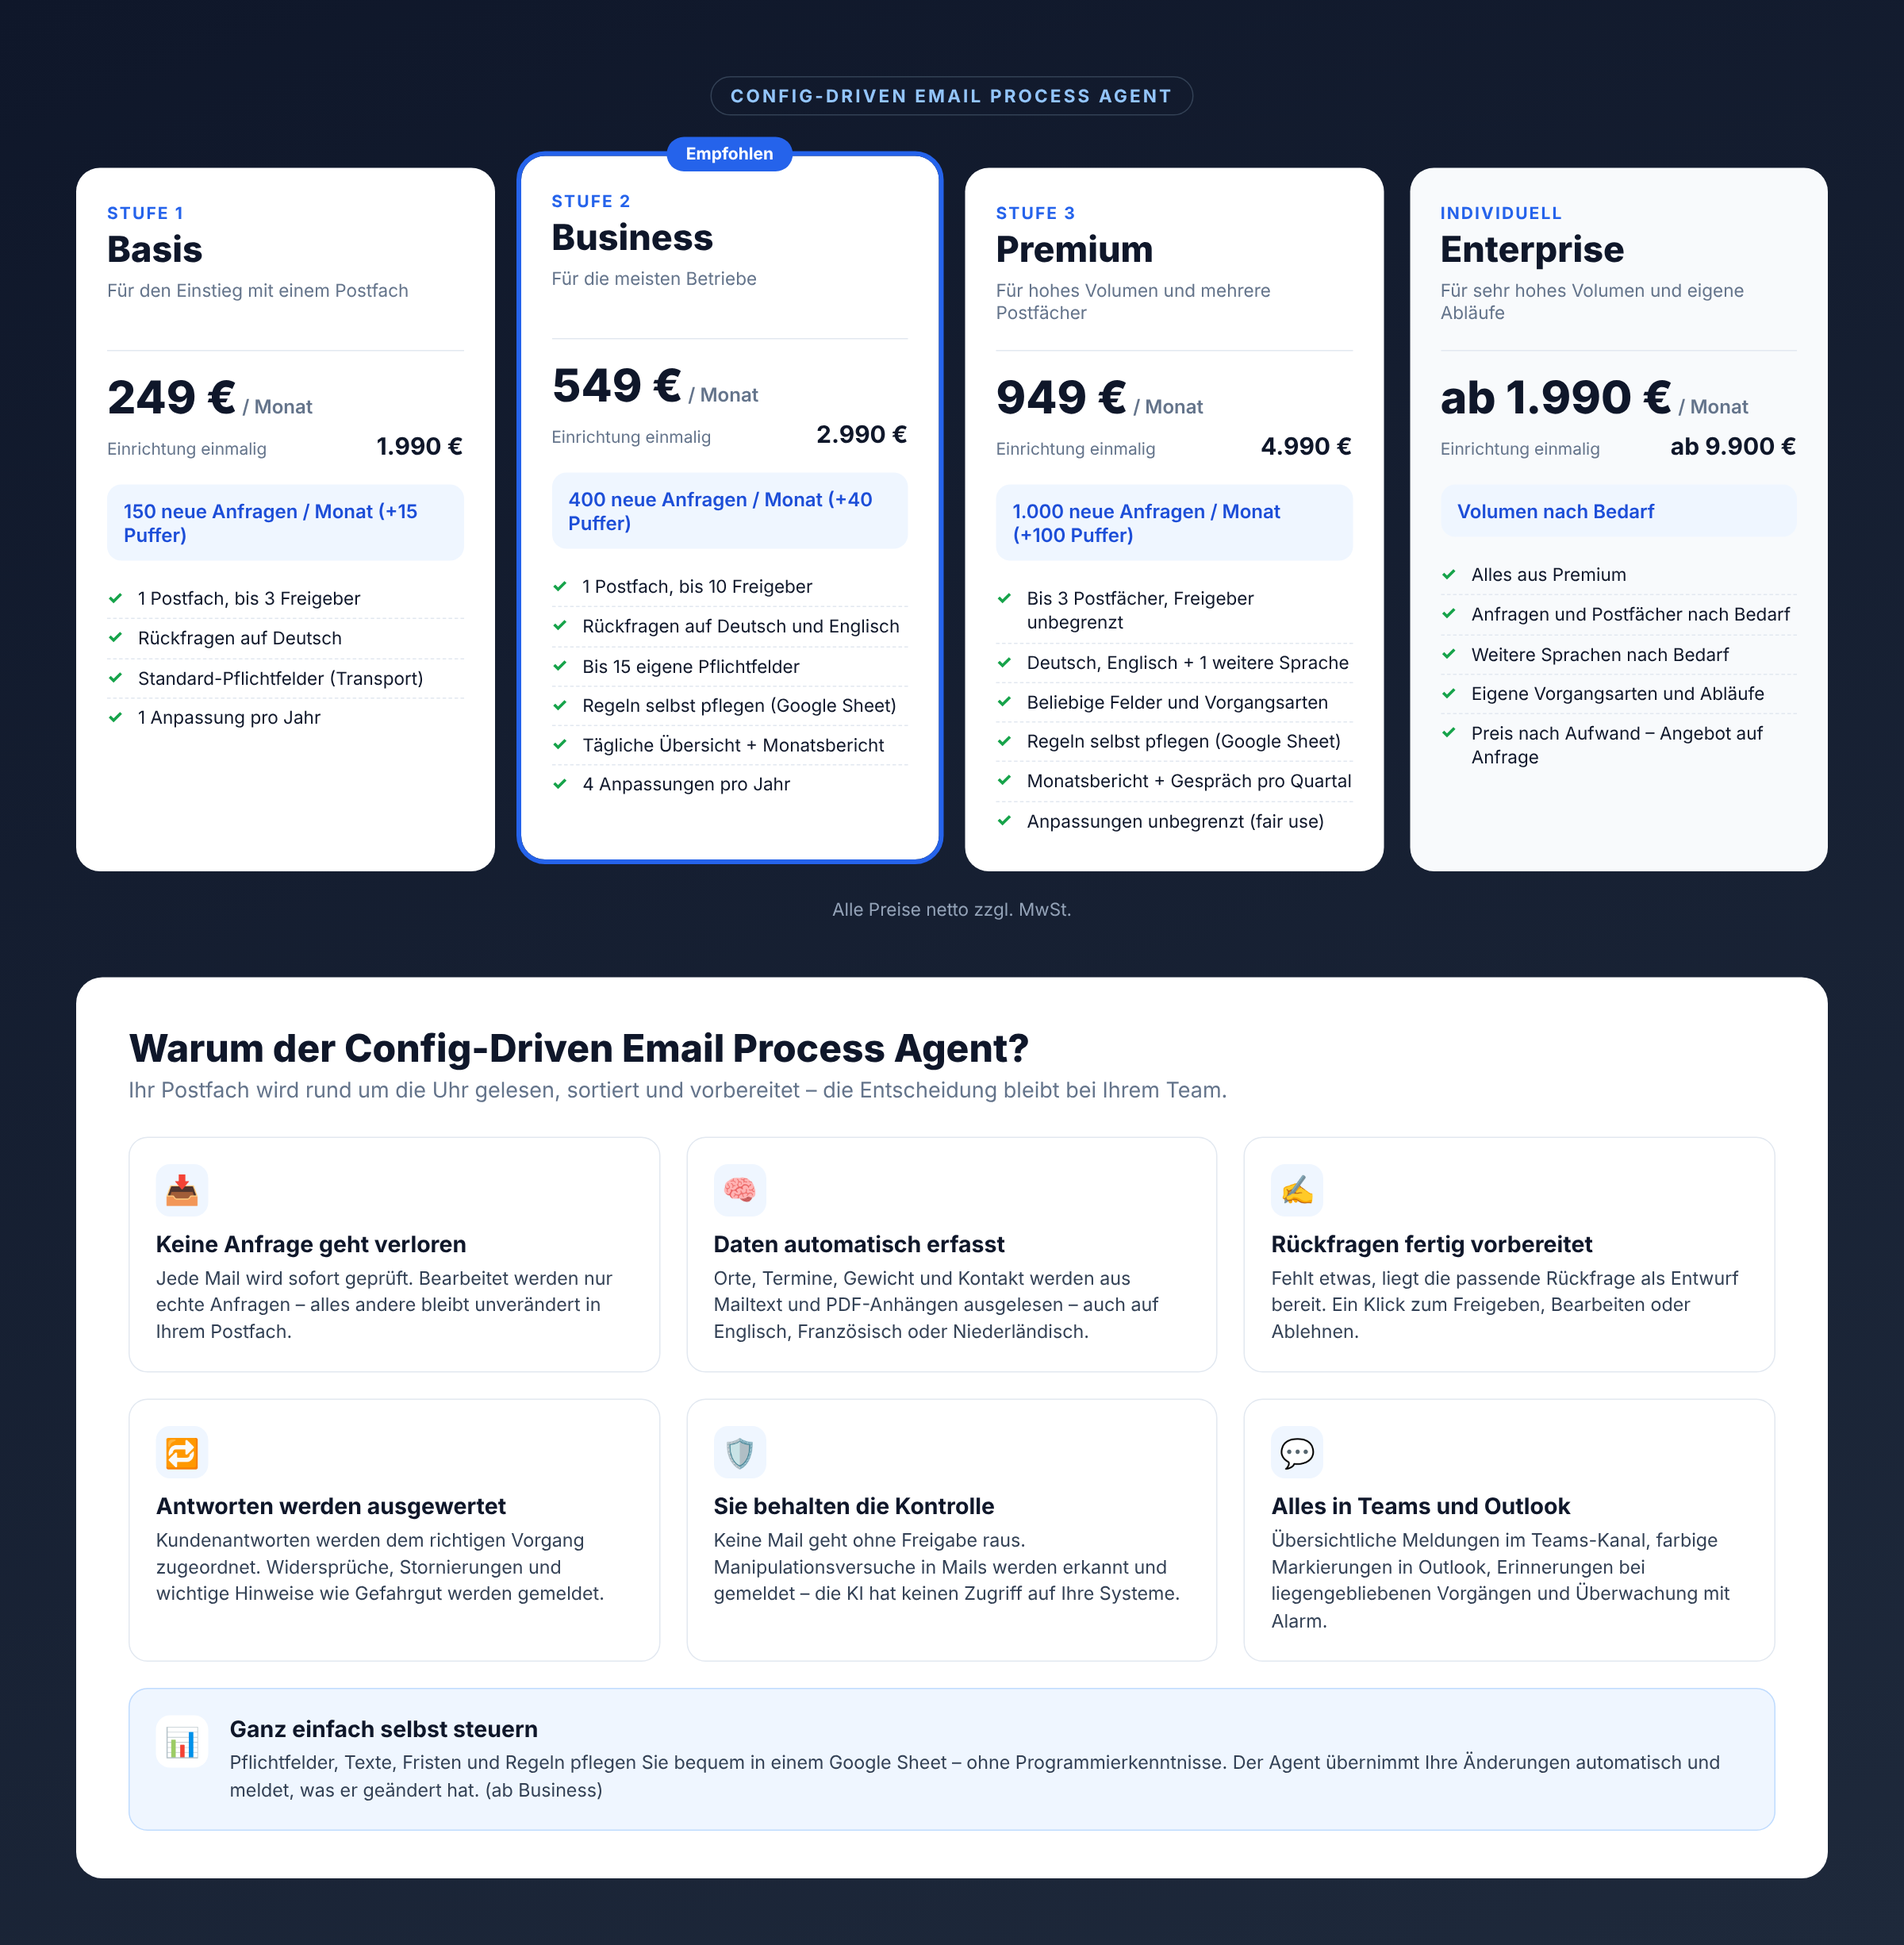
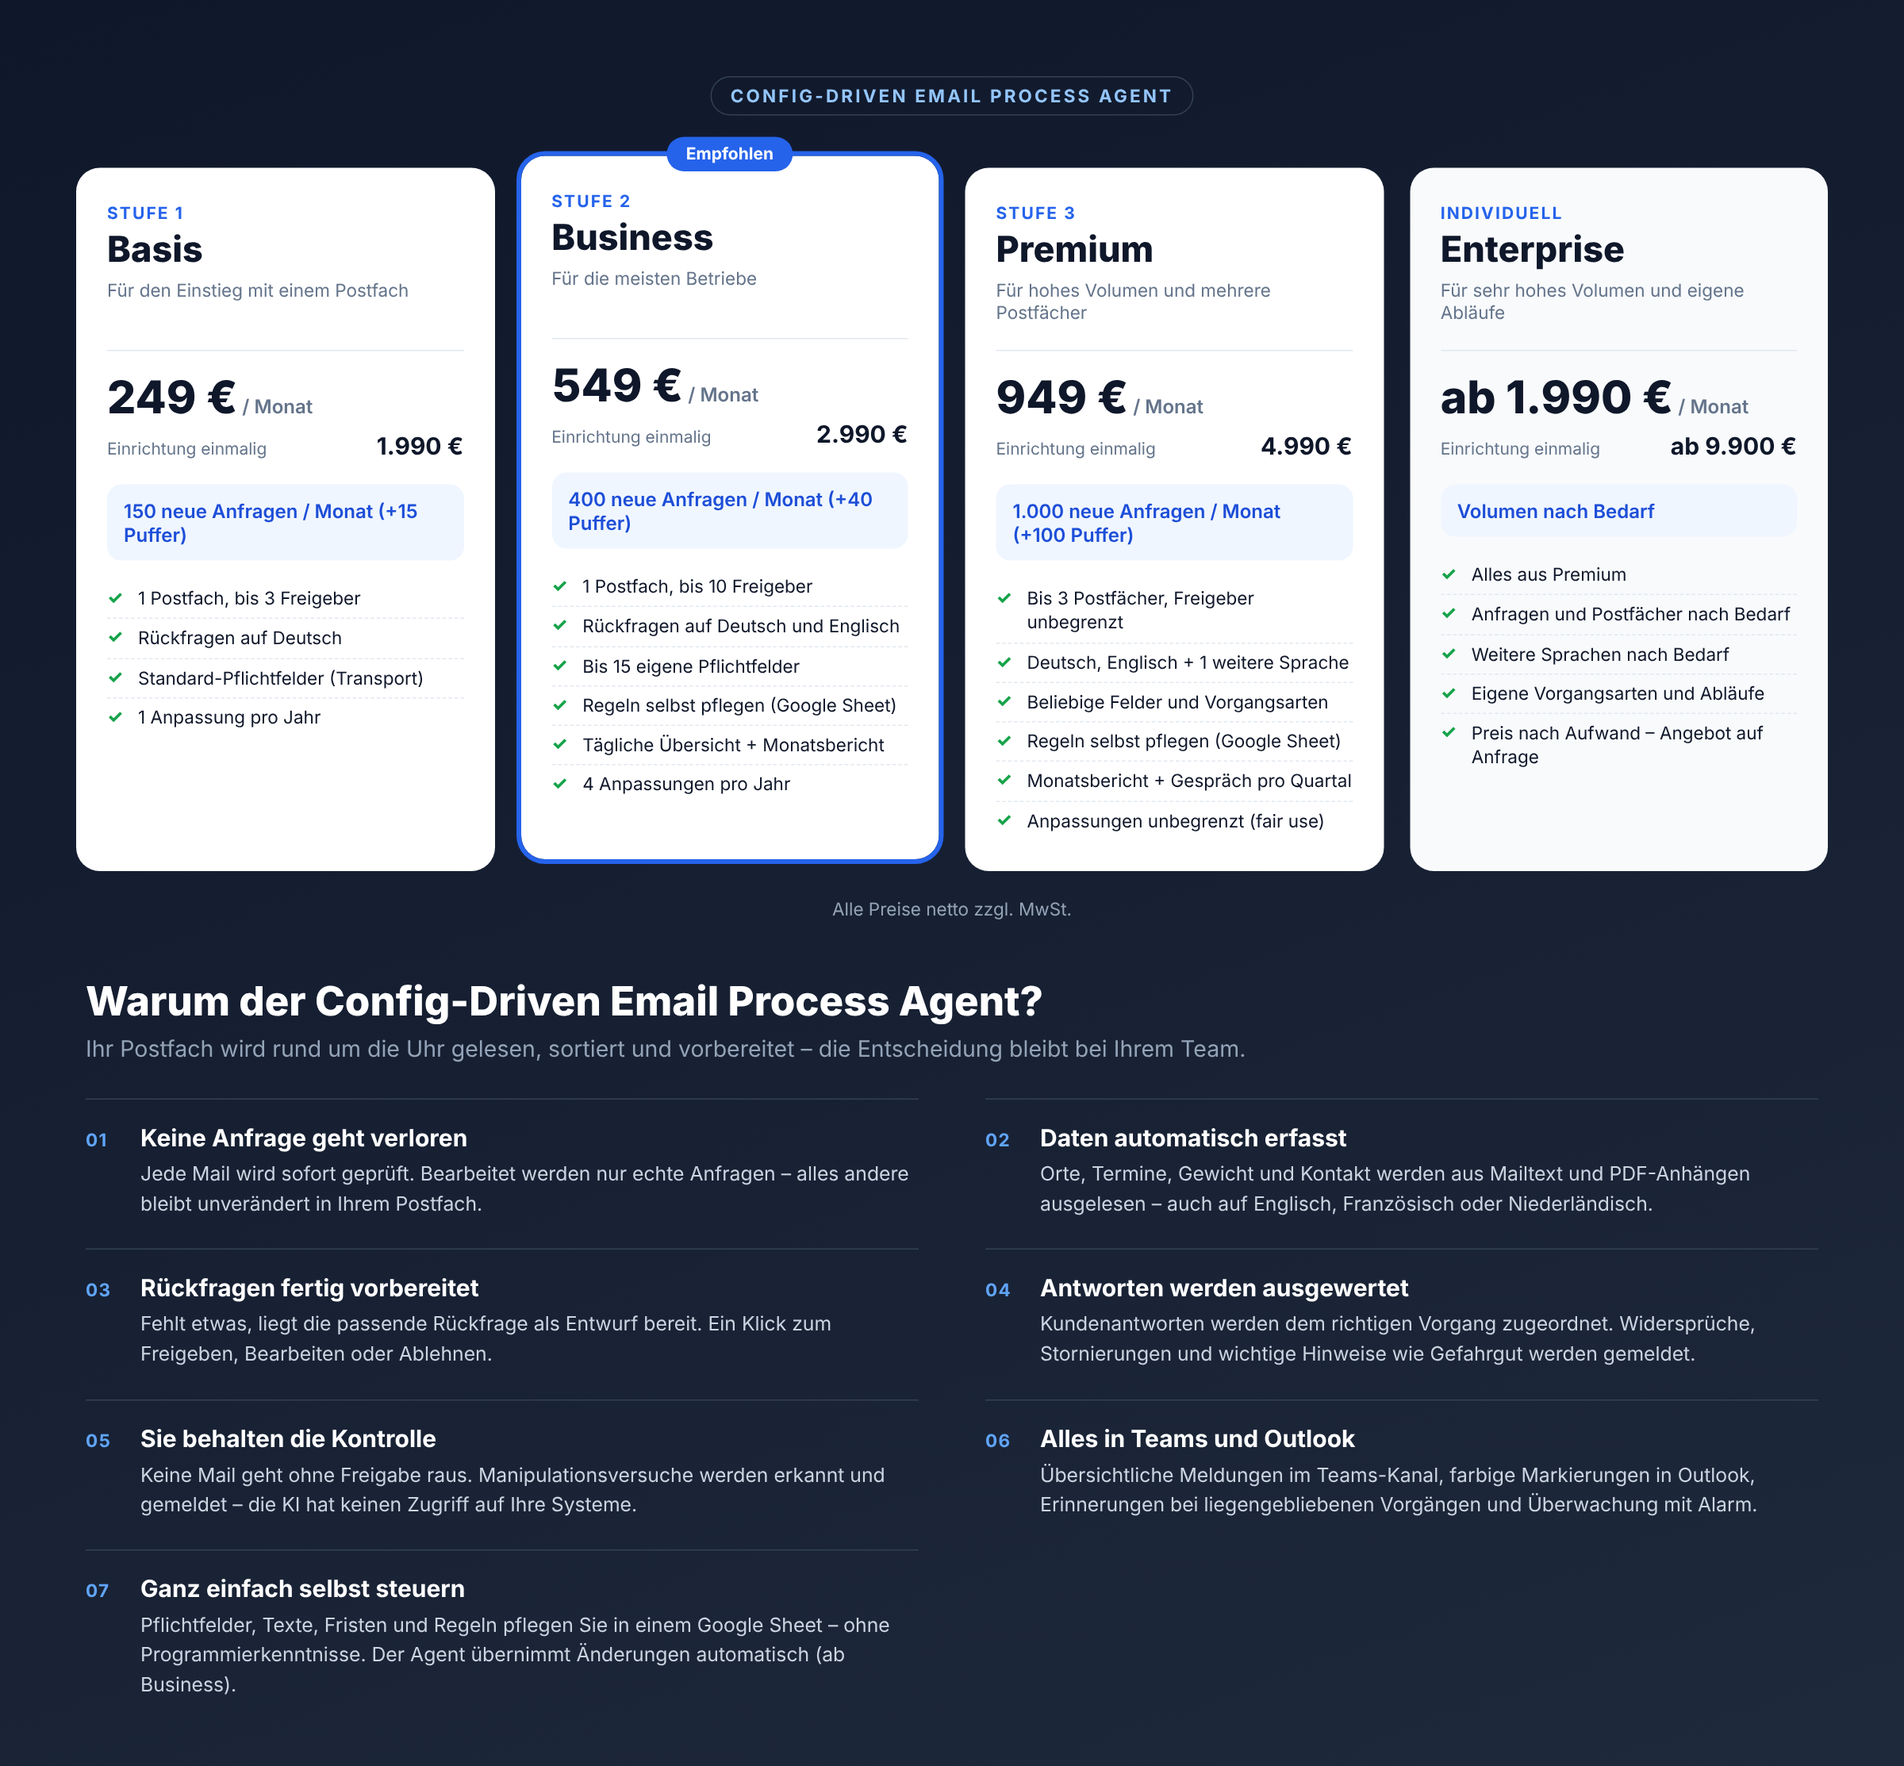
Marketing: Vorteile als Textliste ohne Emojis
Claude-Session: https://claude.ai/code/session_01DWBN4EiRV4Kip9NV7YGeLF

diff --git a/email-process-agent/docs/marketing/pakete.html b/email-process-agent/docs/marketing/pakete.html
@@ -32,9 +32,6 @@ li::before{content:"✓";position:absolute;left:0;top:5px;color:var(--ok);font-w
 .chips{display:flex;flex-wrap:wrap;gap:10px}
 .chips span{background:rgba(255,255,255,.08);border-radius:999px;padding:8px 16px;font-size:16px}
 .netto{text-align:center;color:#94a3b8;font-size:15px;margin-top:22px}
-.vorteile{margin-top:48px;background:#fff;border-radius:22px;padding:40px 44px}
-.vorteile h2{font-size:32px;font-weight:800;margin-bottom:6px}
-.vorteile .sub{font-size:18px;color:var(--muted);margin-bottom:28px}
 .grid{display:grid;grid-template-columns:repeat(3,1fr);gap:22px}
 .v{border:1px solid var(--line);border-radius:16px;padding:22px}
 .v .ic{width:44px;height:44px;border-radius:12px;background:var(--soft);display:flex;align-items:center;justify-content:center;font-size:24px;margin-bottom:12px}
@@ -44,6 +41,14 @@ li::before{content:"✓";position:absolute;left:0;top:5px;color:var(--ok);font-w
 .v p{font-size:15.5px;color:#334155;line-height:1.45}
 .fuss{text-align:center;color:#cbd5e1;font-size:17px;margin-top:30px}
 .fuss b{color:#fff}
+.vorteile{margin-top:48px;padding:0 8px;color:#e2e8f0;background:none}
+.vorteile h2{font-size:34px;font-weight:800;color:#fff;margin-bottom:8px}
+.vorteile .sub{font-size:19px;color:#94a3b8;margin-bottom:30px}
+.liste{display:grid;grid-template-columns:1fr 1fr;column-gap:56px;row-gap:26px}
+.pt{display:flex;gap:18px;border-top:1px solid #334155;padding-top:20px}
+.pt .nr{font-size:15px;font-weight:700;color:#60a5fa;letter-spacing:.06em;min-width:28px;padding-top:4px}
+.pt h3{font-size:20px;font-weight:700;color:#fff;margin-bottom:6px}
+.pt p{font-size:16.5px;line-height:1.5;color:#cbd5e1}
 </style></head><body>
 <div class="kopf">
   <div class="tag">Config-Driven Email Process Agent</div>
@@ -128,15 +133,14 @@ li::before{content:"✓";position:absolute;left:0;top:5px;color:var(--ok);font-w
 <div class="vorteile">
   <h2>Warum der Config-Driven Email Process Agent?</h2>
   <div class="sub">Ihr Postfach wird rund um die Uhr gelesen, sortiert und vorbereitet – die Entscheidung bleibt bei Ihrem Team.</div>
-  <div class="grid">
-    <div class="v"><div class="ic">📥</div><h3>Keine Anfrage geht verloren</h3><p>Jede Mail wird sofort geprüft. Bearbeitet werden nur echte Anfragen – alles andere bleibt unverändert in Ihrem Postfach.</p></div>
-    <div class="v"><div class="ic">🧠</div><h3>Daten automatisch erfasst</h3><p>Orte, Termine, Gewicht und Kontakt werden aus Mailtext und PDF-Anhängen ausgelesen – auch auf Englisch, Französisch oder Niederländisch.</p></div>
-    <div class="v"><div class="ic">✍</div><h3>Rückfragen fertig vorbereitet</h3><p>Fehlt etwas, liegt die passende Rückfrage als Entwurf bereit. Ein Klick zum Freigeben, Bearbeiten oder Ablehnen.</p></div>
-    <div class="v"><div class="ic">🔁</div><h3>Antworten werden ausgewertet</h3><p>Kundenantworten werden dem richtigen Vorgang zugeordnet. Widersprüche, Stornierungen und wichtige Hinweise wie Gefahrgut werden gemeldet.</p></div>
-    <div class="v"><div class="ic">🛡</div><h3>Sie behalten die Kontrolle</h3><p>Keine Mail geht ohne Freigabe raus. Manipulationsversuche in Mails werden erkannt und gemeldet – die KI hat keinen Zugriff auf Ihre Systeme.</p></div>
-    <div class="v"><div class="ic">💬</div><h3>Alles in Teams und Outlook</h3><p>Übersichtliche Meldungen im Teams-Kanal, farbige Markierungen in Outlook, Erinnerungen bei liegengebliebenen Vorgängen und Überwachung mit Alarm.</p></div>
-    <div class="v breit"><div class="ic">📊</div><div><h3>Ganz einfach selbst steuern</h3><p>Pflichtfelder, Texte, Fristen und Regeln pflegen Sie bequem in einem Google Sheet – ohne Programmierkenntnisse. Der Agent übernimmt Ihre Änderungen automatisch und meldet, was er geändert hat. (ab Business)</p></div></div>
+  <div class="liste">
+    <div class="pt"><div class="nr">01</div><div><h3>Keine Anfrage geht verloren</h3><p>Jede Mail wird sofort geprüft. Bearbeitet werden nur echte Anfragen – alles andere bleibt unverändert in Ihrem Postfach.</p></div></div>
+    <div class="pt"><div class="nr">02</div><div><h3>Daten automatisch erfasst</h3><p>Orte, Termine, Gewicht und Kontakt werden aus Mailtext und PDF-Anhängen ausgelesen – auch auf Englisch, Französisch oder Niederländisch.</p></div></div>
+    <div class="pt"><div class="nr">03</div><div><h3>Rückfragen fertig vorbereitet</h3><p>Fehlt etwas, liegt die passende Rückfrage als Entwurf bereit. Ein Klick zum Freigeben, Bearbeiten oder Ablehnen.</p></div></div>
+    <div class="pt"><div class="nr">04</div><div><h3>Antworten werden ausgewertet</h3><p>Kundenantworten werden dem richtigen Vorgang zugeordnet. Widersprüche, Stornierungen und wichtige Hinweise wie Gefahrgut werden gemeldet.</p></div></div>
+    <div class="pt"><div class="nr">05</div><div><h3>Sie behalten die Kontrolle</h3><p>Keine Mail geht ohne Freigabe raus. Manipulationsversuche werden erkannt und gemeldet – die KI hat keinen Zugriff auf Ihre Systeme.</p></div></div>
+    <div class="pt"><div class="nr">06</div><div><h3>Alles in Teams und Outlook</h3><p>Übersichtliche Meldungen im Teams-Kanal, farbige Markierungen in Outlook, Erinnerungen bei liegengebliebenen Vorgängen und Überwachung mit Alarm.</p></div></div>
+    <div class="pt"><div class="nr">07</div><div><h3>Ganz einfach selbst steuern</h3><p>Pflichtfelder, Texte, Fristen und Regeln pflegen Sie in einem Google Sheet – ohne Programmierkenntnisse. Der Agent übernimmt Änderungen automatisch (ab Business).</p></div></div>
   </div>
 </div>
-
 </body></html>
